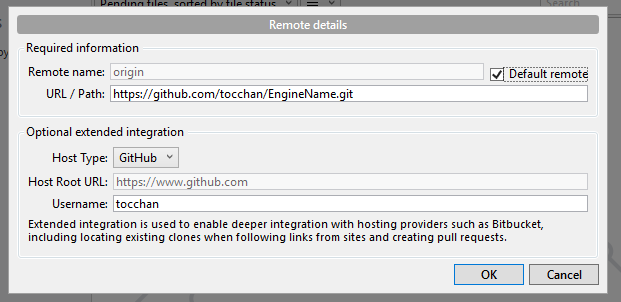
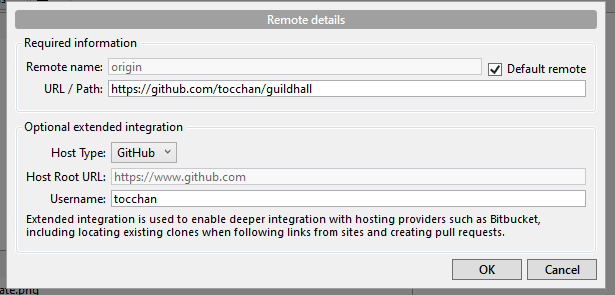
Update git tutorial with new structure used with C29

Changed region(s): [[0.0, 0.0, 1.0, 1.0]]

diff --git a/examples/common/git/README.md b/examples/common/git/README.md
@@ -11,13 +11,9 @@ This will require that we restructure our Game/Engine relationship by having our
 ## Walkthrough
 
 ### Create a GitHub account
-There are other possible hosts to use, but github has a free student account that allows you to create unlimited private repots, as well as it is the service I use for grading.
+We'll be using GitHub as it allows for private repots;  If you can not make a private repot, you may need to sign up for the [GitHub Education](https://education.github.com/pack) pack. 
 
-Next, sign up for a student account.
-https://education.github.com/pack
-
-
-### Create 2 New Repots (Engine & Protogame)
+### Create 2 New Repots (Engine & Guildhall)
 We will leave them empty for now; 
 
 First, go to your homepage in GitHub, and select Repositories, and click "New".
@@ -29,14 +25,12 @@ Next, create your Repot.
 ![Create](create.png)
 
 ### (Optional) Download Atlassian SourceTree
-To make this easier - I recommend getting this GUI client for Git.
-https://www.sourcetreeapp.com/
+To make this easier - I recommend getting this GUI client for Git.  There are [numerous options](https://git-scm.com/download/gui/windows), but I personally prefer to use [SourceTree](https://www.sourcetreeapp.com/)
 
-There are others, including Visual Studio has an integration, but I prefer this one, as it exposes more of Git functionality, as well as a console for when you have to do somtehing more specialized (which we'll be doing with submodules).
-
+SourceTree tends to be more 1-1 with what Git is actually doing, and has a command console installed with it if you ever need to do something a little more esoteric. 
 
 ### Prepare your Project
-Make your Protogame project.  Just copy into a new folder, preferably not under your P4 workspace.  
+Make your `Guildhall` project.  Just copy root SD folder to a new location, *not under your current P4 workspace*.
 
 Open up SourceTree, and create a new repot, and point it at this folder.
 
@@ -53,13 +47,13 @@ The left side shows our current working branch - we'll get more into that later.
 
 Up top is Staged files, these are files to be commited (like a changelist in P4). 
 
-Below that is Unstaged files.  These are files that have been edited from either what is currently commited, or what is in staged files.  You will likley see a lot of files here that you don't want to track.    
+Below that is Unstaged files.  These are all files that have been edited since the last commit, or from a currently staged file (and may need to be re-staged).  
 
-Now, git works reactively unlike P4 - it will automatically track changed files (added, removed, edited, etc...).  This means we a way to tell Git to ignore certain files, and we do this with a .gitignore file. 
+Now, git works reactively, detecting changes (edits/adds/removes) automatically, and it will pick up a lot of files and edits we may not care about.  To sovle this, we add a `.gitignore` file to tell it what files we want it to, well, ignore. 
 
 Download and copy this [.gitignore](gitignore_example.txt) file to your root folder, and rename it to ".gitignore".  This file helps git figure out what files do not need to be tracked.  
 
-Go back to sourcetree, and Unstaged files should now show a `.gitignore` file near the top and you should see less files.  If you see files you don't want ot track, you can write click and select "Ignore", and either ignore just that file, that extension, or that folder.  If you need more rules, the `.gitignore` file is plain text, that applies rules top to bottom (so you can ignore all, then stop ignoring a specific file). 
+Go back to sourcetree, and Unstaged files should now show a `.gitignore` file near the top and you should see less files.  If you see files you don't want to track, you can right-click and select "Ignore", and either ignore just that file, that extension, or that folder.  If you need more rules, the `.gitignore` file is plain text, that applies rules top to bottom (so you can ignore all, then stop ignoring a specific file). 
 
 Once you're happy that only the files you want tracked are in Unstaged, select "Stage All", write a commit message (bottom part of that window), and select Commit.  
 
@@ -102,21 +96,20 @@ So go to SourceTree, and we're going to open a new tab and clone a repot.  All y
 Once cloned, you should be able to navigate to that folder, and compile.  If all went well, you should still be able to compile your Engine. 
 
 
-### Protogame and Submodules
-Repeat the above steps for your Protogame.  This should not compile as your project depends on Engine being in a folder relative to Protogame (usually pu the tree and back down). 
+### Engine and Submodules
+If you want to track your `Engine` as a submodule, we're going to repeat a number of the steps above, but just for our engine folder; 
 
-This doesn't work with Git unless your users know to pull both projects relative to each other.  A better way with Git is to put your Engine as a submodule of your game (ie, your game depends on Engine).  This allows your engine to exist under protogame, but is tracked seperately.
+After your `Engine` is its own Repot, we will delete it from our `Guildhall` repot and commit that change.
 
-To do this, Under your Protogame root, add a new folder called "Submodules". If you want to try doing this by command line, you can follow this tutorial;
+Next, we add `Engine` back, but this time as a submodule, which is saying this other project is part of our project, but tracked seperately.  Our project will point to a specific commit of our `Engine` after we do this.
+
+You can add a submodule using SourceTree by selecting `Repository > Add Submodule`.  Use the git link as the URL, and give it the path of where your `Engine` should live.
+
+![Submodule](submodule.png)
+
+If you're curious on the command line way to do this, see the following; 
+
 https://git-scm.com/book/en/v2/Git-Tools-Submodules
-
-You can also do this through SourceTree, by going to your Protogame project, and select Repository > Add Submodule.  Use the git link as the URL, and give it the path "Submodule/Engine" for example.  
-
-This repot now lives under Protogame, but is tracked seperately.  You can select the Submodule from the left side to open it.  
-
-
-### Fix up Engine Links
-Protogame is now pointing to an Engine that now longer exists.  You have to go now and manually fix up the links so Protogame compiles.  Once this is all done, commit and push the changes.  
 
 
 ### Common Pitfalls

diff --git a/mp2/c29/assignments/a01/README.md b/mp2/c29/assignments/a01/README.md
@@ -35,6 +35,9 @@ Use the branch name `mp2/turnin/a01` for grading, and you have the checklist cop
 
 ## Notes
 
+- [Setting Up Git](https://github.com/tocchan/guildhall/tree/master/examples/common/git)
+- [Cloning Git & Submodules](https://github.com/tocchan/guildhall/tree/master/examples/common/gitclone)
+
 ### Buddy Build
 To do a buddy build, make a new folder, for example `D:\BuddyBuild`, and make sure it is empty.
 
